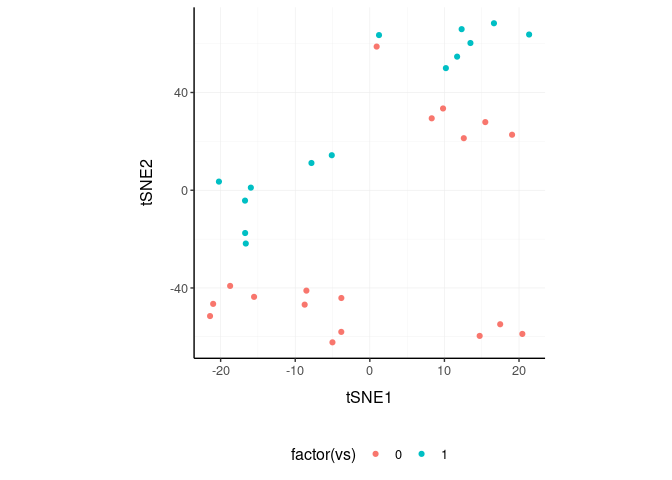
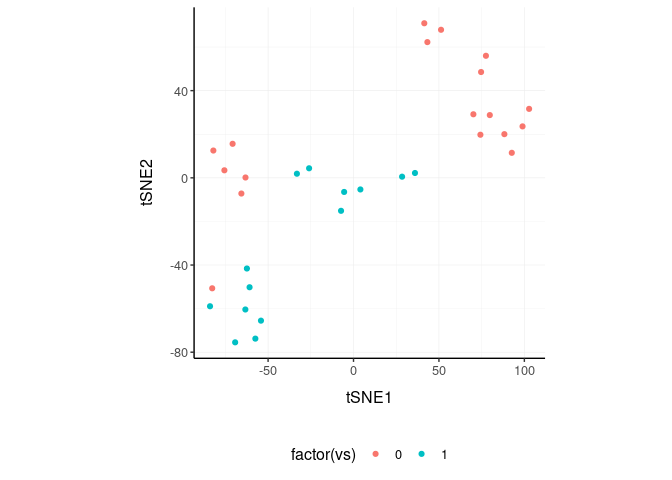
update README and vignettes

diff --git a/README.md b/README.md
@@ -1,4 +1,4 @@
-nanny: high-level data analysis and manipulations in tidyverse style.
+nanny: high-level data analysis and manipulation in tidyverse style.
 ================
 
 **It tidies up your playground\!**
@@ -86,7 +86,7 @@ mtcars_tidy
     ## 10 Merc 280            123     1 mpg     -0.148
     ## # … with 278 more rows
 
-## Reduce `dimensions`
+## `reduce_dimensions`
 
 We may want to reduce the dimensions of our data, for example using PCA,
 MDS of tSNE algorithms. `reduce_dimensions` takes a tibble, column names
@@ -189,18 +189,18 @@ mtcars_tidy_tSNE %>%
 ```
 
     ## # A tibble: 32 x 5
-    ##     tSNE1  tSNE2 car_model            hp    vs
-    ##     <dbl>  <dbl> <chr>             <dbl> <dbl>
-    ##  1   8.30  29.4  Mazda RX4           110     0
-    ##  2   9.82  33.5  Mazda RX4 Wag       110     0
-    ##  3  11.7   54.7  Datsun 710           93     1
-    ##  4 -16.7  -17.5  Hornet 4 Drive      110     1
-    ##  5 -21.0  -46.5  Hornet Sportabout   175     0
-    ##  6 -16.6  -21.8  Valiant             105     1
-    ##  7  -3.83 -58.0  Duster 360          245     0
-    ##  8 -16.0    1.06 Merc 240D            62     1
-    ##  9 -20.2    3.53 Merc 230             95     1
-    ## 10  -5.10  14.3  Merc 280            123     1
+    ##     tSNE1   tSNE2 car_model            hp    vs
+    ##     <dbl>   <dbl> <chr>             <dbl> <dbl>
+    ##  1 -63.2    0.149 Mazda RX4           110     0
+    ##  2 -65.6   -7.21  Mazda RX4 Wag       110     0
+    ##  3 -60.8  -50.2   Datsun 710           93     1
+    ##  4  28.4    0.525 Hornet 4 Drive      110     1
+    ##  5  98.9   23.6   Hornet Sportabout   175     0
+    ##  6  36.0    2.21  Valiant             105     1
+    ##  7  74.7   48.5   Duster 360          245     0
+    ##  8  -5.49  -6.48  Merc 240D            62     1
+    ##  9  -7.30 -15.1   Merc 230             95     1
+    ## 10 -33.1    1.88  Merc 280            123     1
     ## # … with 22 more rows
 
 ``` r
@@ -211,7 +211,7 @@ mtcars_tidy_tSNE %>%
 
 ![](README_files/figure-gfm/unnamed-chunk-4-1.png)<!-- -->
 
-## Rotate `dimensions`
+## `rotate_dimensions`
 
 We may want to rotate the reduced dimensions (or any two numeric columns
 really) of our data, of a set angle. `rotate_dimensions` takes a tibble,
@@ -251,7 +251,7 @@ mtcars_tidy_MDS.rotated %>%
 
 ![](README_files/figure-gfm/plot_rotate_2-1.png)<!-- -->
 
-## Cluster `elements`
+## `cluster_elements`
 
 We may want to cluster our data (e.g., using k-means element-wise).
 `cluster_elements` takes as arguments a tibble, column names (as
@@ -279,7 +279,7 @@ plot.
 
 ![](README_files/figure-gfm/plot_cluster-1.png)<!-- -->
 
-## Drop `redundant` features
+## `drop_redundant`
 
 We may want to remove redundant elements from the original data set
 (e.g., elements or features), for example if we want to define cell-type
@@ -310,10 +310,11 @@ mtcars_tidy_non_redundant %>%
 
 ![](README_files/figure-gfm/plot_drop-1.png)<!-- -->
 
-## `fill_missing` element/feature pairs
+## `fill_missing`
 
 This function allows to obtain a rectangular underlying data structure,
-where every element has one feature
+where every element has one feature, filling missing element/feature
+pairs with a value of choice (e.g., 0)
 
 We create a non-rectangular data frame
 
@@ -343,10 +344,11 @@ mtcars_tidy_non_rectangular %>% fill_missing(car_model, feature, value, fill_wit
     ## 10 Merc 280            123     1 mpg     -0.148
     ## # … with 278 more rows
 
-## `impute_missing` element/feature pairs
+## `impute_missing`
 
 This function allows to obtain a rectangular underlying data structure,
-where every element has one feature
+where every element has one feature, imputig missing element/feature
+pairs with a function of choice (e.g., median)
 
 We impute the missing value with the a summary value (median by default)
 according to a grouping
@@ -374,7 +376,9 @@ mtcars_tidy_non_rectangular %>% mutate(vs = factor(vs)) %>%
     ## 10 Chrysler Imperial     230 0     mpg     -0.894
     ## # … with 278 more rows
 
-## `permute_nest`, From one column build a two permuted columns with nested information
+## `permute_nest`
+
+From one column build a two permuted columns with nested information
 
 ``` r
 mtcars_tidy_permuted = 
@@ -399,7 +403,9 @@ mtcars_tidy_permuted
     ## 10 AMC Javelin Ford Pantera L     <tibble [18 × 3]>
     ## # … with 982 more rows
 
-## `combine_nest`, From one column build a two combination columns with nested information
+## `combine_nest`
+
+From one column build a two combination columns with nested information
 
 ``` r
 mtcars_tidy %>%
@@ -421,7 +427,9 @@ mtcars_tidy %>%
     ## 10 AMC Javelin Ford Pantera L     <tibble [18 × 2]>
     ## # … with 486 more rows
 
-## `lower_triangular` | keep rows corresponding to a lower triangular matrix
+## `lower_triangular`
+
+keep rows corresponding to a lower triangular matrix
 
 ``` r
 mtcars_tidy_permuted %>%
@@ -449,7 +457,9 @@ mtcars_tidy_permuted %>%
     ## 10 Hornet 4 Drive Hornet Sportabout      -0.00674
     ## # … with 486 more rows
 
-## `keep_variable`, Keep top variable features
+## `keep_variable`
+
+Keep top variable features
 
 ``` r
 mtcars_tidy %>%
@@ -471,7 +481,9 @@ mtcars_tidy %>%
     ## 10 Merc 280            123     1 mpg     -0.148
     ## # … with 278 more rows
 
-## `as_matrix` Robustly convert a tibble to matrix
+## `as_matrix`
+
+Robustly convert a tibble to matrix
 
 ``` r
 mtcars_tidy %>%
@@ -496,7 +508,9 @@ mtcars_tidy %>%
     ## Datsun 710          0.4235542  0.4495434  0.42600682 -0.9170046
     ## Dodge Challenger   -0.9318192 -0.7616832 -0.54772305  0.3094156
 
-## `subset` Select columns with information relative to a column of interest
+## `subset`
+
+Select columns with information relative to a column of interest
 
 ``` r
 mtcars_tidy %>%
@@ -518,7 +532,31 @@ mtcars_tidy %>%
     ## 10 Merc 280            123     1
     ## # … with 22 more rows
 
-## ADD versus GET versus ONLY modes
+## `nest_subset`
+
+Nest a data frame based on the columns with information relative to the
+column provided to nest
+
+``` r
+mtcars_tidy %>% nest_subset(data = -car_model)
+```
+
+    ## # A tibble: 32 x 4
+    ##    car_model            hp    vs data            
+    ##    <chr>             <dbl> <dbl> <list>          
+    ##  1 Mazda RX4           110     0 <tibble [9 × 2]>
+    ##  2 Mazda RX4 Wag       110     0 <tibble [9 × 2]>
+    ##  3 Datsun 710           93     1 <tibble [9 × 2]>
+    ##  4 Hornet 4 Drive      110     1 <tibble [9 × 2]>
+    ##  5 Hornet Sportabout   175     0 <tibble [9 × 2]>
+    ##  6 Valiant             105     1 <tibble [9 × 2]>
+    ##  7 Duster 360          245     0 <tibble [9 × 2]>
+    ##  8 Merc 240D            62     1 <tibble [9 × 2]>
+    ##  9 Merc 230             95     1 <tibble [9 × 2]>
+    ## 10 Merc 280            123     1 <tibble [9 × 2]>
+    ## # … with 22 more rows
+
+## `ADD` versus `GET` versus `ONLY` modes
 
 Every function takes a tidyfeatureomics structured data as input, and
 (i) with action=“add” outputs the new information joint to the original
